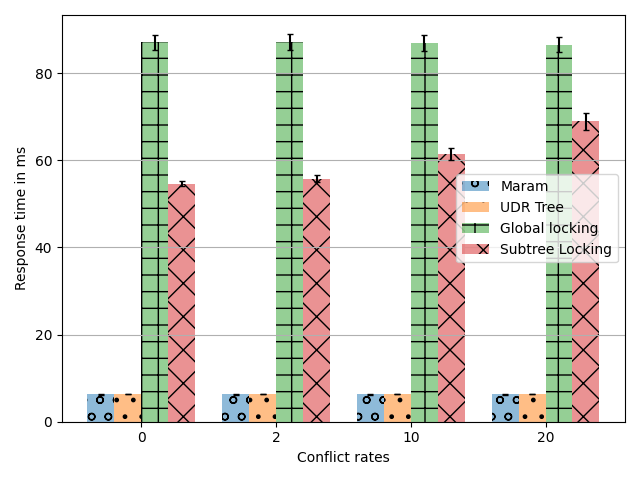
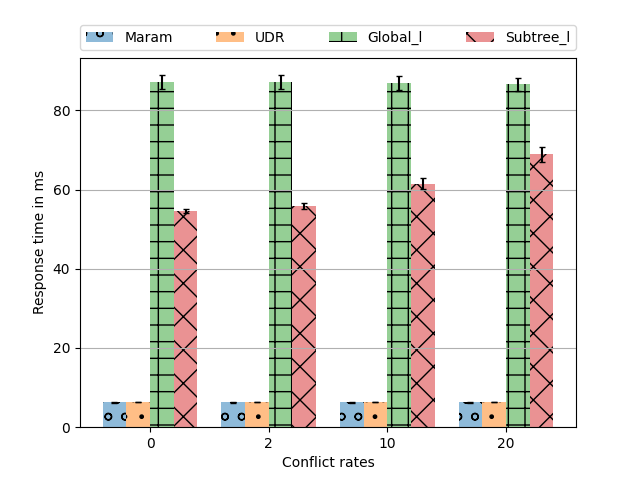
baseline unsafe tree graph generated

diff --git a/reports/report_generator.py b/reports/report_generator.py
@@ -16,13 +16,15 @@ from datetime import datetime, timedelta
 
 replicas = ['paris','bangalore','newyork']
 
-experiments = ['Maram', 'UDR Tree', 'Global locking', 'Subtree Locking'] 
+experiments = ['Maram', 'UDR Tree', 'Global locking', 'Subtree Locking', 'Unsafe'] 
 # 'CRDT Tree', 'Opsets based tree', 'Tree with global lock', 'Tree with subtree locks']
+
+folder = os.path.join('/', 'Users', 'snair', 'works', 'tree-crdt-experiments', 'cluster_results', 'baseline_final')
 
 def parse_logs(lc_config, exp, conflict, run):
   data = {}
   for r in replicas:
-    reg_file = os.path.join('/', 'Users', 'snair', 'works', 'tree-crdt-experiments', 'cluster_results', 'final', 'run'+str(run), 'lc'+str(lc_config), 'data'+str(conflict), str(exp), 'data', r, 'register.txt')
+    reg_file = os.path.join(folder, 'run'+str(run), 'lc'+str(lc_config), 'data'+str(conflict), str(exp), 'data', r, 'register.txt')
     with open(reg_file, 'r') as l:
       lines = l.readlines()
       for each in lines:
@@ -35,7 +37,7 @@ def parse_logs(lc_config, exp, conflict, run):
             data[key]["requested_time"] = datetime.strptime(j["time"], '%Y-%m-%d %H:%M:%S.%f')
           except:
             data[key]["requested_time"] = datetime.strptime(j["time"], '%Y-%m-%d %H:%M:%S')
-    reg_file = os.path.join('/', 'Users', 'snair', 'works', 'tree-crdt-experiments', 'cluster_results', 'final', 'run'+str(run), 'lc'+str(lc_config), 'data'+str(conflict), str(exp), 'data',r, 'done.txt')
+    reg_file = os.path.join(folder, 'run'+str(run), 'lc'+str(lc_config), 'data'+str(conflict), str(exp), 'data',r, 'done.txt')
     with open(reg_file) as l:
       lines = l.readlines()
       for each in lines:
@@ -50,7 +52,7 @@ def parse_logs(lc_config, exp, conflict, run):
             data[key]["acknowledged"] = datetime.strptime(j["time"], '%Y-%m-%d %H:%M:%S')
     for r1 in replicas:
       file_name = 'time'+r1+'.txt'
-      reg_file = os.path.join('/', 'Users', 'snair', 'works', 'tree-crdt-experiments', 'cluster_results', 'final', 'run'+str(run), 'lc'+str(lc_config), 'data'+str(conflict), str(exp),'data', r, file_name)
+      reg_file = os.path.join(folder, 'run'+str(run), 'lc'+str(lc_config), 'data'+str(conflict), str(exp),'data', r, file_name)
       with open(reg_file, 'r') as l:
         lines = l.readlines()
         for each in lines:
@@ -67,7 +69,7 @@ def parse_logs(lc_config, exp, conflict, run):
   skipmove_count = 0
   for r in replicas:
     file_name = r+'.txt'
-    reg_file = os.path.join('/', 'Users', 'snair', 'works', 'tree-crdt-experiments', 'cluster_results', 'final', 'run'+str(run), 'lc'+str(lc_config), 'data'+str(conflict), str(exp),'data', 'paris', file_name)
+    reg_file = os.path.join(folder, 'run'+str(run), 'lc'+str(lc_config), 'data'+str(conflict), str(exp),'data', 'paris', file_name)
     with open(reg_file, 'r') as l:
       lines = l.readlines()
       for each in lines:
@@ -99,7 +101,7 @@ def parse_replica_logs(lc_config, exp, conflict, run):
   for r in replicas:
     for r1 in replicas:
       file_name = 'time'+r1+'.txt'
-      reg_file = os.path.join('/', 'Users', 'snair', 'works', 'tree-crdt-experiments', 'cluster_results', 'final', 'run'+str(run), 'lc'+str(lc_config), 'data'+str(conflict), str(exp),'data', r, file_name)
+      reg_file = os.path.join(folder, 'run'+str(run), 'lc'+str(lc_config), 'data'+str(conflict), str(exp),'data', r, file_name)
       with open(reg_file, 'r') as l:
         lines = l.readlines()
         for each in lines:
@@ -115,7 +117,7 @@ def parse_replica_logs(lc_config, exp, conflict, run):
             data[key]["ts"] = j["ts"]
   for r in replicas:
     file_name = r+'.txt'
-    reg_file = os.path.join('/', 'Users', 'snair', 'works', 'tree-crdt-experiments', 'cluster_results', 'final', 'run'+str(run), 'lc'+str(lc_config), 'data'+str(conflict), str(exp),'data', 'paris', file_name)
+    reg_file = os.path.join(folder, 'run'+str(run), 'lc'+str(lc_config), 'data'+str(conflict), str(exp),'data', 'paris', file_name)
     with open(reg_file, 'r') as l:
       lines = l.readlines()
       for each in lines:
@@ -226,7 +228,7 @@ def result(lc_config, run):
       # print(experiments[i] + " All: " + str(rt[1].total_seconds()*1000) + " :: Moves: " + str(rt[2].total_seconds()*1000) + " :: Nonmoves: " + str(rt[3].total_seconds()*1000))
       row += [experiments[i] + ' & ' +str(rt[1].total_seconds()*1000) + ' & ' +str(rt[2].total_seconds()*1000) + ' & ' + str(rt[3].total_seconds()*1000) + '\\\\']
       file_name = "response"+str(lc_config)+"con"+str(j)+"exp"+str(i)+".json"
-      file_to_write = os.path.join('/', 'Users', 'snair', 'works', 'tree-crdt-experiments', 'cluster_results', 'final', 'run'+str(run), 'lc'+str(lc_config), 'data'+str(j), str(i), file_name)
+      file_to_write = os.path.join(folder, 'run'+str(run), 'lc'+str(lc_config), 'data'+str(j), str(i), file_name)
       with open(file_to_write, "w") as f:
         f.write("\n".join([str(r) for r in rt[0]]))
       responses[j][i] = rt[1].total_seconds()*1000
@@ -235,6 +237,20 @@ def result(lc_config, run):
     # file_name = "response"+str(lc_config)+"con"+str(j)+".tex"
     # with open(file_name, "w") as f:
     #   f.write("\n".join(row))
+
+
+#####################################################
+  overhead = {}
+  data = parse_logs(lc_config, 5, 0, run)
+  rt = response_time(data)
+  row += [experiments[4] + ' & ' +str(rt[1].total_seconds()*1000) + ' & ' +str(rt[2].total_seconds()*1000) + ' & ' + str(rt[3].total_seconds()*1000) + '\\\\']
+  file_name = "response"+str(lc_config)+"con"+str(0)+"exp"+str(5)+".json"
+  file_to_write = os.path.join(folder, 'run'+str(run), 'lc'+str(lc_config), 'data'+str(0), str(5), file_name)
+  with open(file_to_write, "w") as f:
+    f.write("\n".join([str(r) for r in rt[0]]))
+  responses[0][5] = rt[1].total_seconds()*1000
+  ######################################
+
   # print("=============")
   # return  average stabilization time per experiment
   # print("Stabilization time")
@@ -250,7 +266,7 @@ def result(lc_config, run):
       # print("Conflict %: " + str(j) + " : " + "All: " + str(res[1].total_seconds()*1000) + " moves: " + str(res[2].total_seconds()*1000) + " other operations: " + str(res[3].total_seconds()*1000))
       row += [str(res[1].total_seconds()*1000)]
       file_name = "stab"+str(lc_config)+"con"+str(j)+"exp"+str(i)+".json"
-      file_to_write = os.path.join('/', 'Users', 'snair', 'works', 'tree-crdt-experiments', 'cluster_results', 'final', 'run'+str(run), 'lc'+str(lc_config), 'data'+str(j), str(i), file_name)
+      file_to_write = os.path.join(folder, 'run'+str(run), 'lc'+str(lc_config), 'data'+str(j), str(i), file_name)
       with open(file_to_write, "w") as f:
         f.write("\n".join([str(s) for s in res[0]]))
       stabilizations[j][i] = res[1].total_seconds()*1000
@@ -259,6 +275,8 @@ def result(lc_config, run):
   # with open(file_name, "w") as f:
   #   f.write("\\\\ \n".join(sl) + "\\\\")
   # print("=============")
+
+
   return responses, stabilizations, move_responses
 
 import random
@@ -273,7 +291,7 @@ for l in [1, 2, 3]:
     responses[l][c] = {}
     move_responses[l][c] = {}
     stabilizations[l][c] = {}
-    for e in range(4):
+    for e in [0,1,2,3,5]:
       responses[l][c][e] = []
       move_responses[l][c][e] = []
       stabilizations[l][c][e] = []
@@ -283,10 +301,13 @@ for run in range(1, 16):
     # print("LATENCY CONFIG " + str(i) + " \n")
     res0, res1, resm = result(i,run)
     for con in [0, 2, 10, 20]:
-      for exp in range(4):
+      for exp in [0,1,2,3]:
         responses[i][con][exp] += [res0[con][exp]]
         move_responses[i][con][exp] += [resm[con][exp]]
         stabilizations[i][con][exp] += [res1[con][exp]]
+    responses[i][0][5] += [res0[0][5]]
+
+
     # for con in [0, 2, 10, 20]:
     #   for e in range(4):
     #     responses[con][e] += [random.randint(0,5)]
@@ -318,12 +339,12 @@ ax.set_xticks(x_pos)
 ax.set_xlabel('Conflict rates')
 ax.set_xticklabels([0, 2, 10, 20])
 # ax.set_title('Response time for varying conflict rates')
-ax.legend((bar0[0], bar1[0], bar2[0], bar3[0]), ('Maram', 'UDR Tree', 'Global locking', 'Subtree Locking'))
+ax.legend((bar0[0], bar1[0], bar2[0], bar3[0]), ('Maram', 'UDR', 'Global_l', 'Subtree_l'), bbox_to_anchor=(0., 1.02, 1., .5), loc='lower right', borderaxespad=0., mode="expand", ncol=4)
 ax.yaxis.grid(True)
 plt.yscale('log') #logarithmic scale
 
 # Save the figure and show
-plt.tight_layout()
+# plt.tight_layout()
 plt.savefig('response_time_log.png')
 # plt.show()
 
@@ -347,11 +368,11 @@ ax.set_xticks(x_pos)
 ax.set_xlabel('Conflict rates')
 ax.set_xticklabels([0, 2, 10, 20])
 # ax.set_title('Response time for varying conflict rates')
-ax.legend((bar0[0], bar1[0], bar2[0], bar3[0]), ('Maram', 'UDR Tree', 'Global locking', 'Subtree Locking'))
+ax.legend((bar0[0], bar1[0], bar2[0], bar3[0]), ('Maram', 'UDR', 'Global_l', 'Subtree_l'), bbox_to_anchor=(0., 1.02, 1., .5), loc='lower right', borderaxespad=0., mode="expand", ncol=4)
 ax.yaxis.grid(True)
 
 # Save the figure and show
-plt.tight_layout()
+# plt.tight_layout()
 plt.savefig('response_time.png')
 # plt.show()
 
@@ -379,15 +400,40 @@ ax.set_xticks(x_pos)
 ax.set_xlabel('Conflict rates')
 ax.set_xticklabels([0, 2, 10, 20])
 # ax.set_title('Response time for varying conflict rates')
-ax.legend((bar0[0], bar1[0], bar2[0], bar3[0]), ('Maram', 'UDR Tree', 'Global locking', 'Subtree Locking'))
+ax.legend((bar0[0], bar1[0], bar2[0], bar3[0]), ('Maram', 'UDR', 'Global_l', 'Subtree_l'), bbox_to_anchor=(0., 1.02, 1., .5), loc='lower right', borderaxespad=0., mode="expand", ncol=4)
 ax.yaxis.grid(True)
 # plt.yscale('log') #logarithmic scale
 
 # Save the figure and show
-plt.tight_layout()
+# plt.tight_layout()
 plt.savefig('response_time_moves.png')
 # plt.show()
 
+over0 = [np.mean(np.array(responses[l][0][0])) for l in responses]
+overerr0 = [np.std(np.array(responses[l][0][0])) for l in responses]
+over5 = [np.mean(np.array(responses[l][0][5])) for l in responses]
+overerr5 = [np.std(np.array(responses[l][0][5])) for l in responses]
+
+# Build the plot
+x2_pos = np.arange(3)
+fig, ax = plt.subplots()
+obar0 = ax.bar(x2_pos - width/2, over0, width, yerr=overerr0, align='center', alpha=0.5, hatch='o', capsize=2)
+obar1 = ax.bar(x2_pos + width/2, over5, width, yerr=overerr5, align='center', alpha=0.5, hatch='.', capsize=2)
+ax.set_ylabel('Response time in ms')
+ax.set_xticks(x2_pos)
+ax.set_xlabel('Latency settings')
+ax.set_xticklabels(['Zero', 'Realworld', '10x realworld'])
+# ax.set_title('Response time for varying conflict rates')
+ax.legend((obar0[0], obar1[0]), ('Maram', 'Unsafe Tree'), bbox_to_anchor=(0., 1.02, 1., .102), loc='lower right', borderaxespad=0., mode="expand", ncol=2)
+ax.yaxis.grid(True)
+# plt.yscale('log') #logarithmic scale
+
+# Save the figure and show
+# ax.legend(bbox_to_anchor=(0., 1.02, 1., .102), loc='lower left',
+          #  ncol=2, mode="expand", borderaxespad=0.)
+# plt.tight_layout()
+plt.savefig('overhead.png')
+# plt.show()
 
 x_pos = np.arange(3)
 stab0 = [np.mean(np.array(stabilizations[l][0][0])) for l in stabilizations]
@@ -407,10 +453,10 @@ ax.set_xticks(x_pos)
 ax.set_xlabel('Latency settings')
 ax.set_xticklabels(['Zero', 'Realworld', '10x realworld'])
 # ax.set_title('Stabilization time for varying latency configurations')
-ax.legend((bar0[0], bar1[0]), ('Maram', 'UDR Tree'))
+ax.legend((bar0[0], bar1[0]), ('Maram', 'UDR Tree'), bbox_to_anchor=(0., 1.02, 1., .102), loc='lower right', borderaxespad=0., mode="expand", ncol=2)
 ax.yaxis.grid(True)
 # Save the figure and show
-plt.tight_layout()
+# plt.tight_layout()
 plt.savefig('stabilization_time_linear.png')
 # plt.show()
 
@@ -432,10 +478,10 @@ ax.set_xticks(x_pos)
 ax.set_xlabel('Latency settings')
 ax.set_xticklabels(['Zero', 'Realworld', '10x realworld'])
 # ax.set_title('Stabilization time for varying latency configurations')
-ax.legend((bar0[0], bar1[0]), ('Maram', 'UDR Tree'))
+ax.legend((bar0[0], bar1[0]), ('Maram', 'UDR Tree'), bbox_to_anchor=(0., 1.02, 1., .102), loc='lower right', borderaxespad=0., mode="expand", ncol=2)
 ax.yaxis.grid(True)
 plt.yscale('log') #logarithmic scale
 # Save the figure and show
-plt.tight_layout()
+# plt.tight_layout()
 plt.savefig('stabilization_time_log.png')
 # plt.show()
